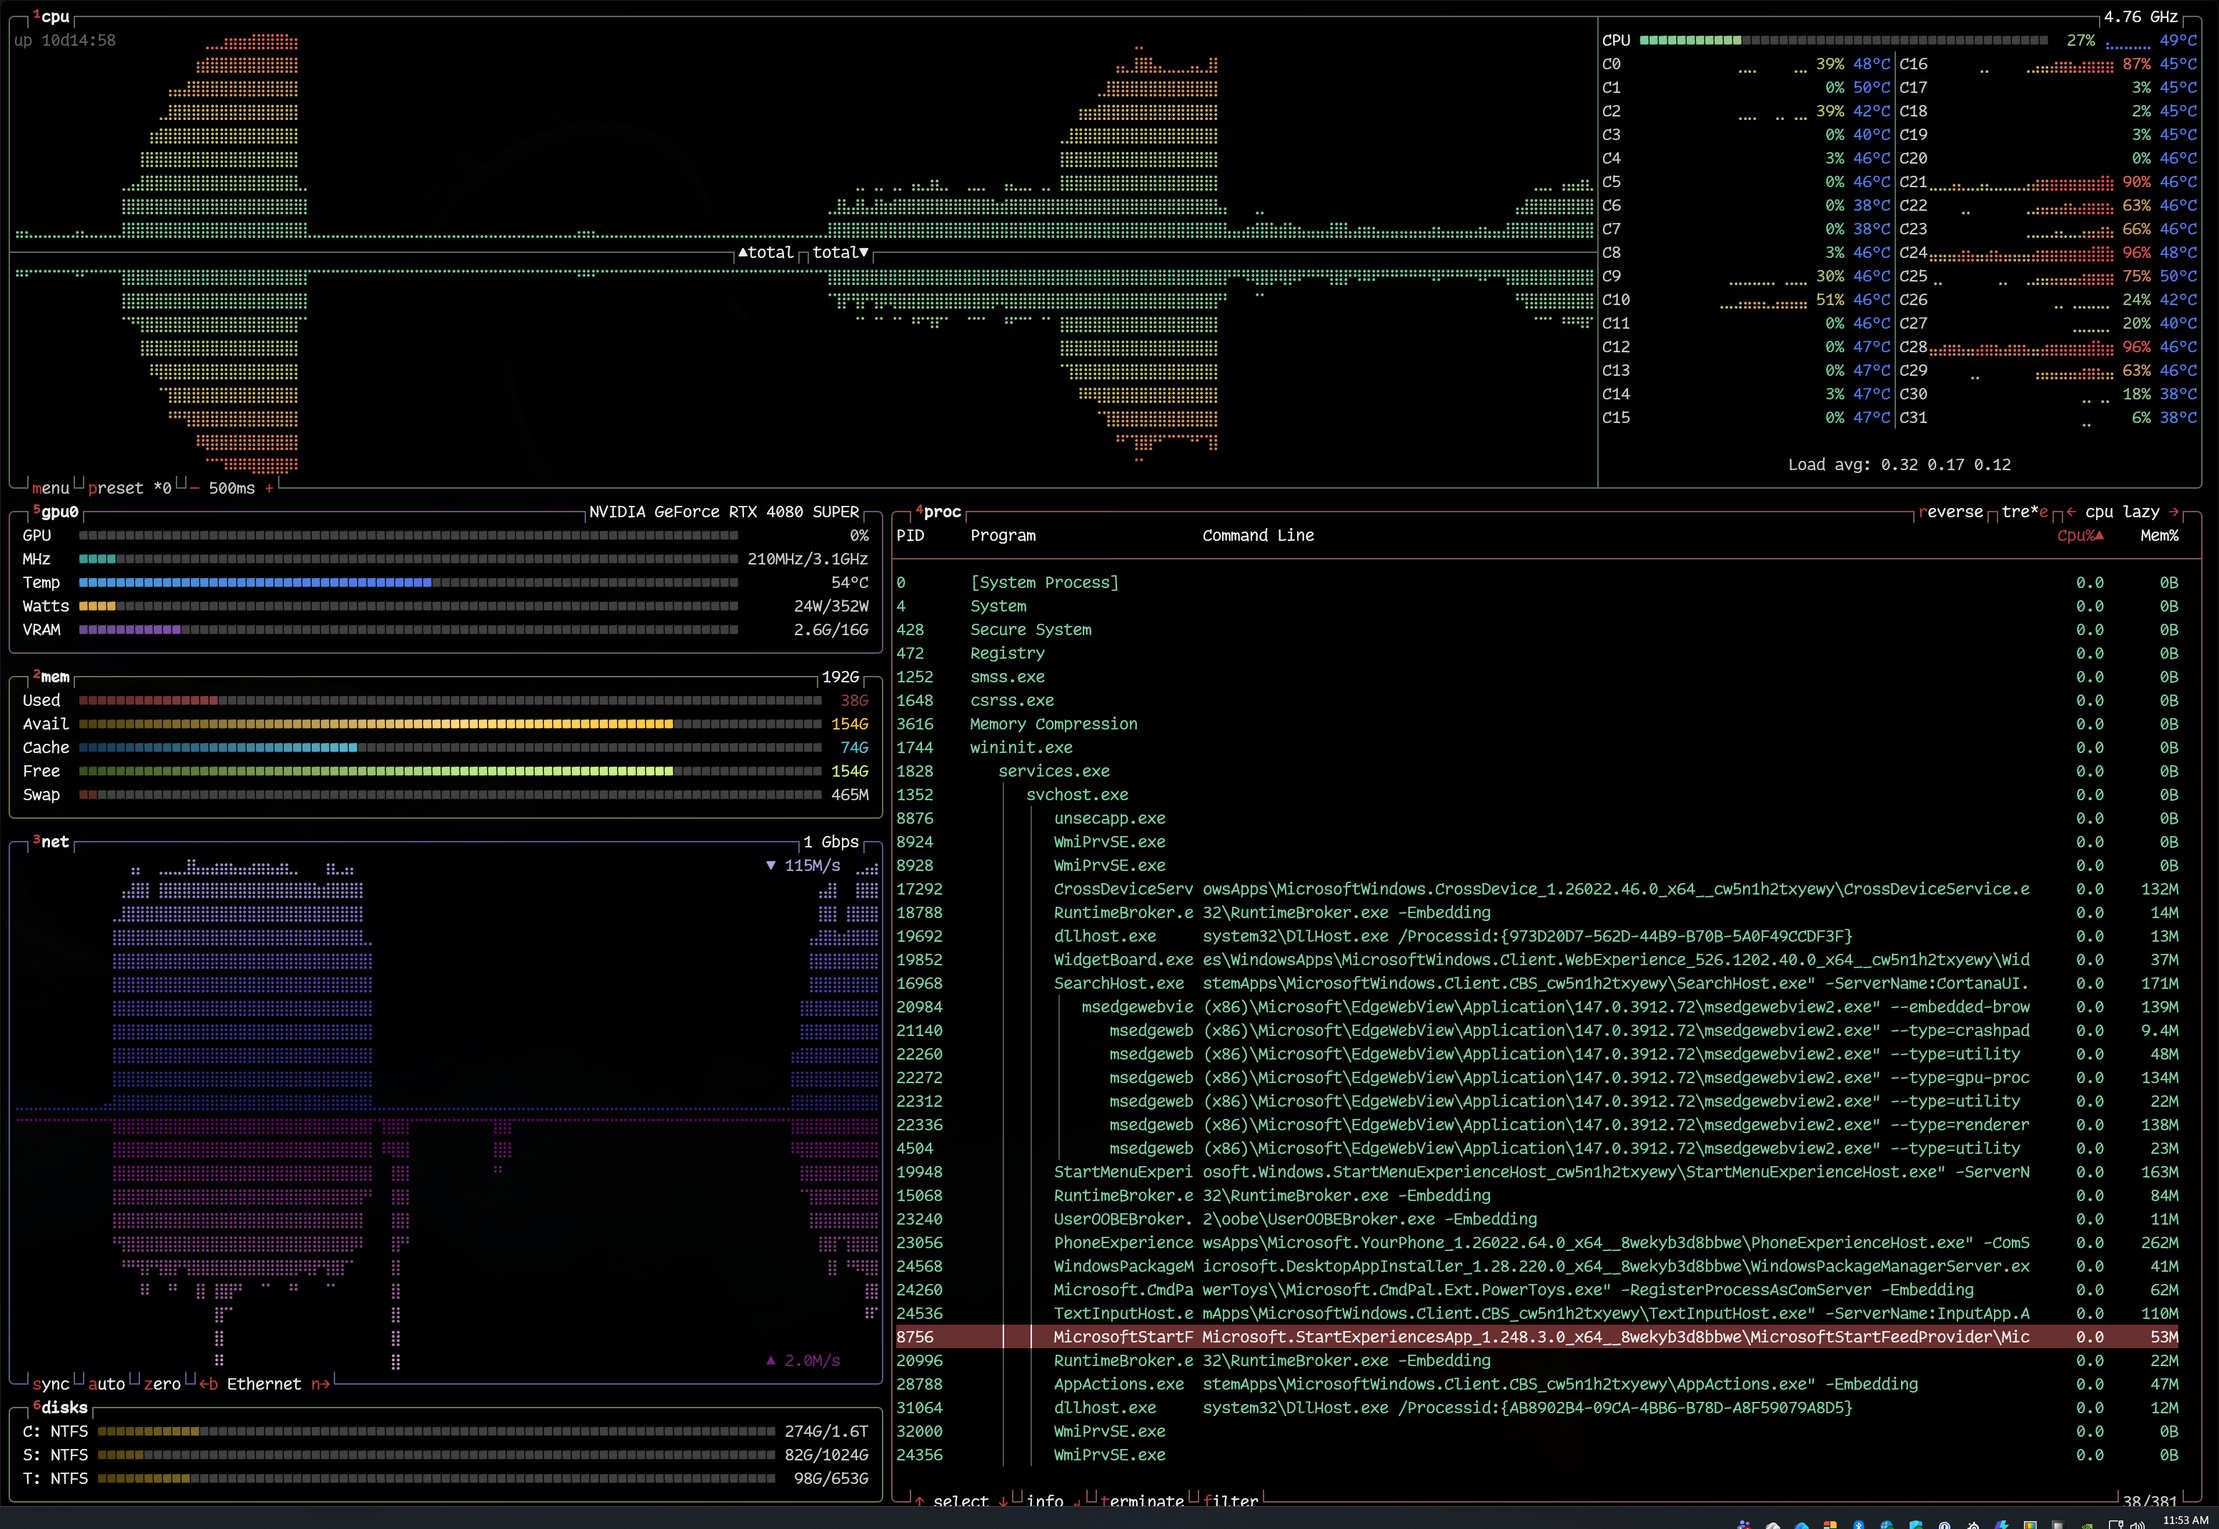
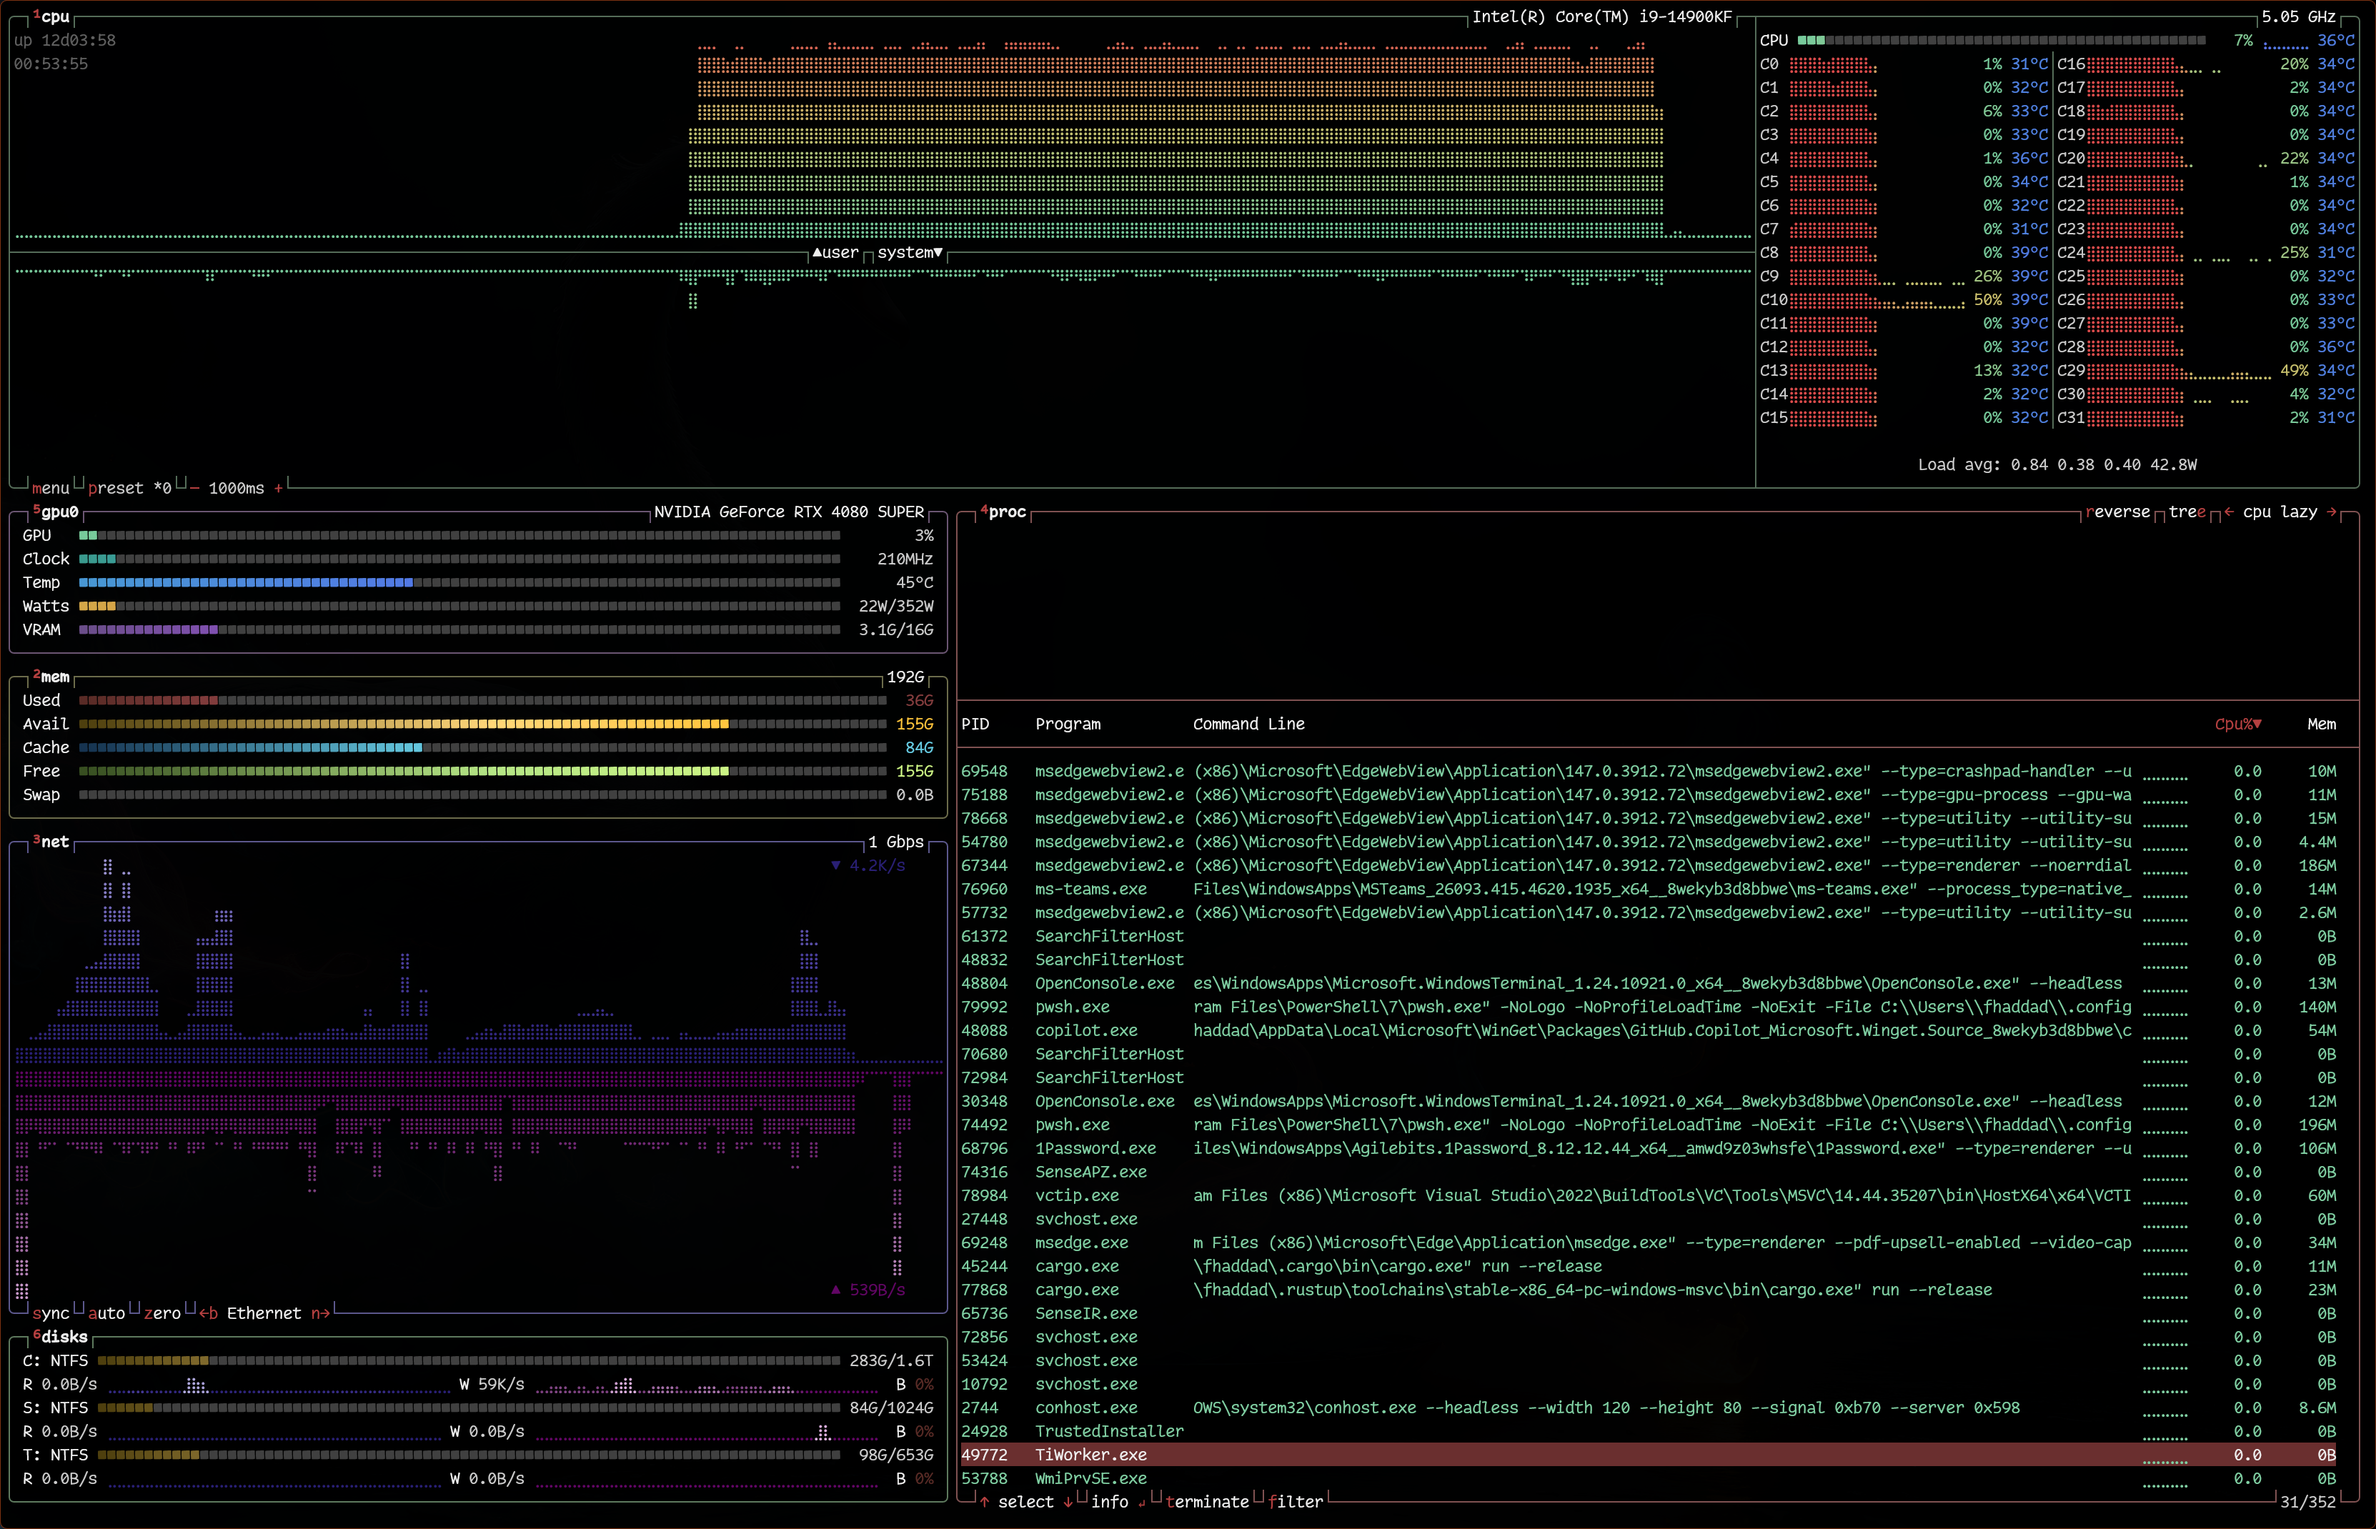
docs: update README and screenshot for current features
- Fix help key: h → ? (h removed from help triggers)
- Fix delete preset: Ctrl+D → Ctrl+X
- Fix theme count: 40 → 41
- Add missing features: vim keys, process following, clock
  display, disk IO mode, CPU power consumption
- Add 12 missing keybinds to table (F, n/b, a/y/z, i, r, c,
  Ctrl+R, Ctrl+X)
- Document vim key bindings section
- Update LHM section to cover temperature and power
- New screenshot showing all widgets with activity

diff --git a/README.md b/README.md
@@ -23,40 +23,57 @@ rtop is a resource monitor that shows CPU, memory, disk, network, GPU, and proce
 The UI design is based on [btop](https://github.com/aristocratos/btop) by aristocratos, reimagined in Rust with Windows-native data collection and several enhancements:
 
 - **Disk is a separate widget** — independently toggleable, not embedded in the memory panel
-- **Preset system** — save/cycle/delete layout presets with `Ctrl+S` / `p` / `Ctrl+D`
+- **Preset system** — save/cycle/delete layout presets with `Ctrl+S` / `p` / `Ctrl+X`
 - **GPU monitoring** via NVIDIA NVML — utilization, temperature, VRAM, power, clocks
-- **CPU temperature** via LibreHardwareMonitor HTTP API
+- **CPU temperature and power** via LibreHardwareMonitor HTTP API
 - **Per-box dirty rendering** — only redraws what changed, no full-screen flicker
-- **40 bundled themes** — dracula, nord, gruvbox, tokyo-night, and more
+- **41 bundled themes** — dracula, nord, gruvbox, tokyo-night, and more
+- **Vim key bindings** — optional h/j/k/l/g/G and Ctrl+F/B/D/U navigation
+- **Process following** — pin a process with `F` to auto-scroll across refreshes
+- **Clock display** — configurable clock in the CPU box
+- **Disk IO mode** — toggle between usage meters and throughput graphs
 
 ## Features
 
 | Widget | Data |
 |--------|------|
-| **CPU** | Per-core utilization, frequency, temperature, user/system graphs, load average |
+| **CPU** | Per-core utilization, frequency, temperature, power (watts), user/system graphs, load average, uptime, clock |
 | **Memory** | Used, available, cached, free, swap — with meter bars |
-| **Disk** | Per-volume usage, filesystem type, capacity, read/write throughput, busy time |
-| **Network** | Download/upload graphs with auto-scaling, interface selector |
-| **GPU** | Utilization, temperature, VRAM, power draw (NVIDIA) |
-| **Process** | PID, name, command line, CPU%, memory, tree view, filter, sort, terminate |
+| **Disk** | Per-volume usage, filesystem type, capacity, read/write throughput, busy time, IO mode |
+| **Network** | Download/upload graphs with auto-scaling, interface selector, speed totals |
+| **GPU** | Utilization, temperature, VRAM, power draw, clocks (NVIDIA) |
+| **Process** | PID, name, command line, CPU%, memory, tree view, filter, sort, follow, terminate |
 
 ### Keybinds
 
 | Key | Action |
 |-----|--------|
 | `m` / `Esc` | Toggle main menu |
-| `h` / `F1` | Help |
+| `?` / `F1` | Help |
 | `o` / `F2` | Options |
 | `1`–`6` | Toggle widgets (cpu/mem/net/proc/gpu/disk) |
 | `p` / `P` | Cycle presets forward/back |
 | `Ctrl+S` | Save current layout as preset |
+| `Ctrl+X` | Delete current preset |
+| `Ctrl+R` | Reload config from file |
 | `+` / `-` | Adjust update speed |
 | `f` / `/` | Filter processes |
-| `e` | Tree view |
+| `e` | Toggle tree view |
+| `r` | Toggle reverse sort |
+| `c` | Toggle per-core CPU |
+| `i` | Toggle disk IO mode |
+| `F` | Follow/unfollow process |
 | `t` | Terminate process |
+| `n` / `b` | Cycle network interfaces |
+| `a` | Toggle network auto scale |
+| `y` | Toggle network sync scale |
+| `z` | Reset network totals |
 | `q` | Quit |
 
-See the built-in help menu (`h`) for the complete list.
+When **vim keys** are enabled (options → general):
+`h`/`j`/`k`/`l` for directional control, `g`/`G` for top/bottom of list, `Ctrl+F`/`Ctrl+B` for page scrolling, `Ctrl+D`/`Ctrl+U` for half-page scrolling.
+
+See the built-in help menu (`?`) for the complete list.
 
 ---
 
@@ -91,9 +108,9 @@ cargo test
 
 ---
 
-## Optional: Temperature Monitoring
+## Optional: Temperature & Power Monitoring
 
-CPU and GPU temperatures require [LibreHardwareMonitor](https://github.com/LibreHardwareMonitor/LibreHardwareMonitor) running in the background with its HTTP server enabled.
+CPU temperature and power consumption (watts) require [LibreHardwareMonitor](https://github.com/LibreHardwareMonitor/LibreHardwareMonitor) running in the background with its HTTP server enabled.
 
 ### Install via winget
 
@@ -111,7 +128,7 @@ winget install LibreHardwareMonitor.LibreHardwareMonitor
 
 - In LibreHardwareMonitor: **Options → Start Minimized** and **Run On Windows Startup**
 
-Without LibreHardwareMonitor, rtop works normally — temperature fields are simply blank.
+Without LibreHardwareMonitor, rtop works normally — temperature and power fields are simply blank.
 
 ---
 
@@ -142,7 +159,7 @@ rtop --default-config
 
 ### Themes
 
-rtop ships with 40 built-in themes. Change the theme from the options menu (General → color_theme) or set it in `rtop.toml`:
+rtop ships with 41 built-in themes. Change the theme from the options menu (General → Color Theme) or set it in `rtop.toml`:
 
 ```
 color_theme = "dracula"
